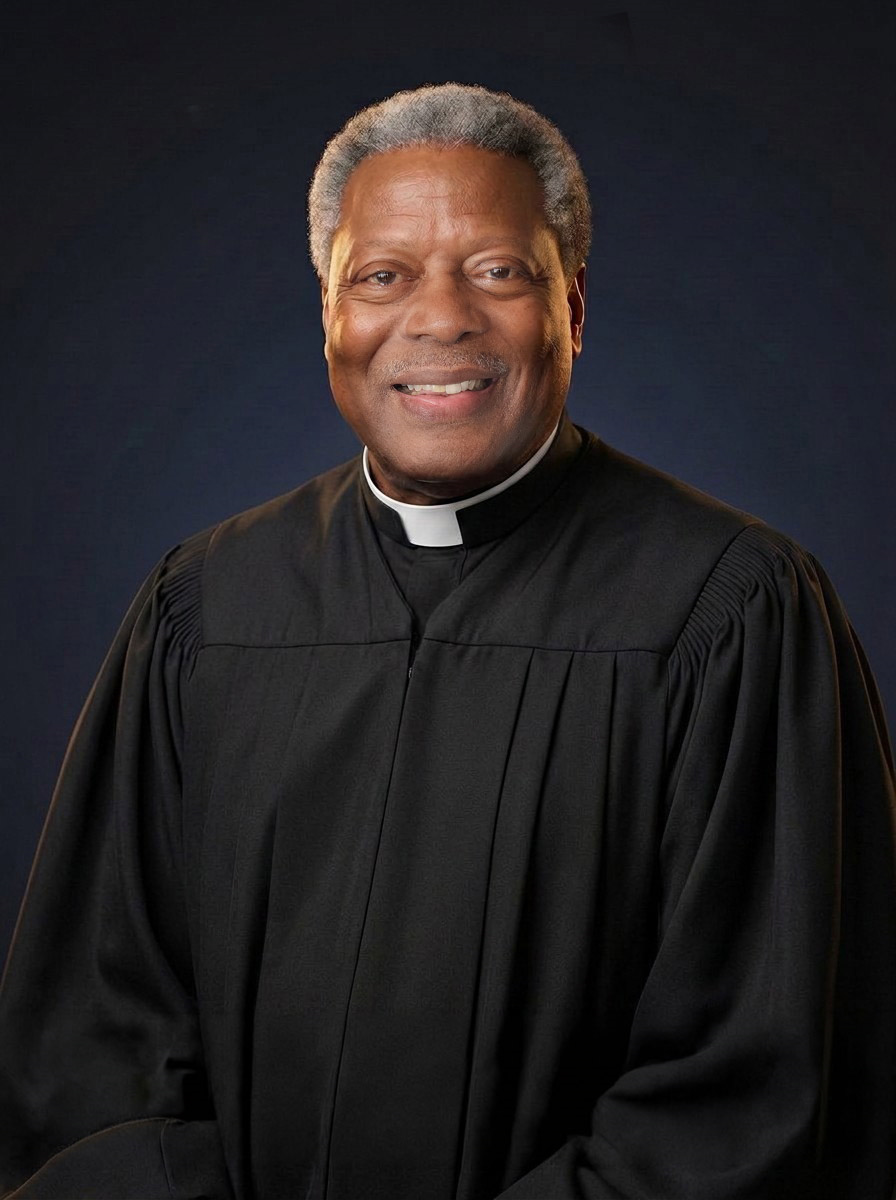
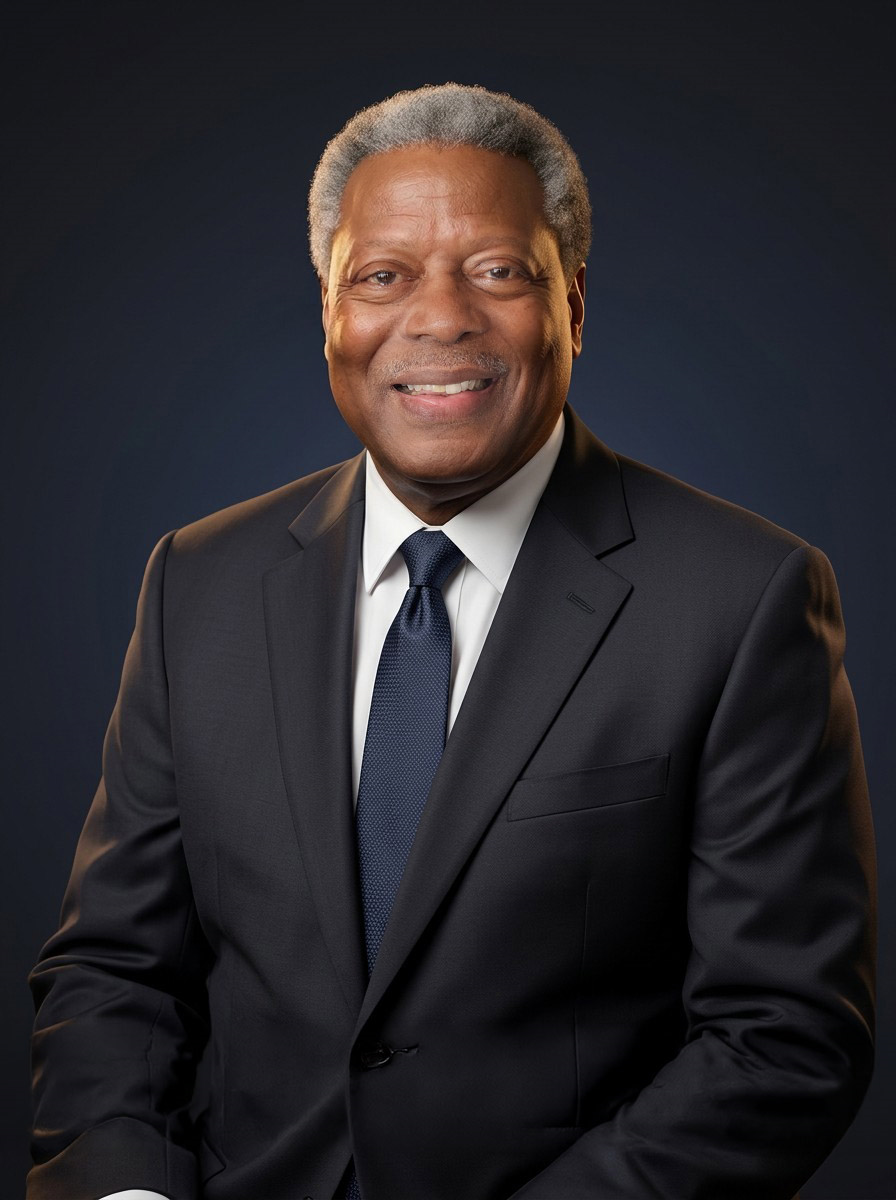
Enforce no-filler-words in code, and update Joel's board photo to the suit portrait
The prompt-only instruction wasn't reliable (one reply still had "umm" 3x), so
filler words are now stripped from model output in code, same pattern as
cleanDashes(). Also swapped board.html's Joel photo to the suit portrait to
match the preview page (Carolyn's suggestion).

diff --git a/netlify/functions/gk-carolyn-foster.js b/netlify/functions/gk-carolyn-foster.js
@@ -37,6 +37,17 @@ function cleanDashes(s) {
   return String(s == null ? '' : s).replace(/—/g, ', ').replace(/–/g, ', ');
 }
 
+// Enforced in code, not just asked for in the prompt: a system-prompt rule alone
+// does not guarantee the model never says "umm". Strip filler words outright so
+// this cannot regress silently.
+function stripFillers(s) {
+  return String(s == null ? '' : s)
+    .replace(/\b(u+m+h?|u+h+m?|erm+)\b[,]?\s*/gi, '')
+    .replace(/\s{2,}/g, ' ')
+    .replace(/\s+([,.!?])/g, '$1')
+    .trim();
+}
+
 const ABUSE_RE = /\b(f+u+c+k+|sh[i1]t|b[i1]tch|a+s+h+o+l+e+|cunt|bastard|damn\s+you|go\s+to\s+hell|kill\s+yourself|shut\s+up\s+bitch)\b/i;
 const CAROLYN_STEP_AWAY = "I'm going to step back from this conversation for now. Come back when you are ready to talk, and I will be here.";
 
@@ -193,5 +204,5 @@ exports.handler = async (event) => {
 
   if (!output) return json(502, { error: 'empty model output' });
 
-  return json(200, { ok: true, body: cleanDashes(output) });
+  return json(200, { ok: true, body: stripFillers(cleanDashes(output)) });
 };

diff --git a/netlify/functions/gk-joel-king.js b/netlify/functions/gk-joel-king.js
@@ -36,6 +36,17 @@ function cleanDashes(s) {
   return String(s == null ? '' : s).replace(/—/g, ', ').replace(/–/g, ', ');
 }
 
+// Enforced in code, not just asked for in the prompt: a system-prompt rule alone
+// does not guarantee the model never says "umm". Strip filler words outright so
+// this cannot regress silently.
+function stripFillers(s) {
+  return String(s == null ? '' : s)
+    .replace(/\b(u+m+h?|u+h+m?|erm+)\b[,]?\s*/gi, '')
+    .replace(/\s{2,}/g, ' ')
+    .replace(/\s+([,.!?])/g, '$1')
+    .trim();
+}
+
 const ABUSE_RE = /\b(f+u+c+k+|sh[i1]t|b[i1]tch|a+s+h+o+l+e+|cunt|bastard|damn\s+you|go\s+to\s+hell|kill\s+yourself|shut\s+up\s+bitch)\b/i;
 const JOEL_STEP_AWAY = 'I think we both need a moment of peace here. Come back when you are ready to talk, and I will be here.';
 
@@ -214,5 +225,5 @@ exports.handler = async (event) => {
 
   if (!output) return json(502, { error: 'empty model output' });
 
-  return json(200, { ok: true, body: cleanDashes(output) });
+  return json(200, { ok: true, body: stripFillers(cleanDashes(output)) });
 };

diff --git a/netlify/functions/gk-gregory-foster.js b/netlify/functions/gk-gregory-foster.js
@@ -37,6 +37,17 @@ function cleanDashes(s) {
   return String(s == null ? '' : s).replace(/—/g, ', ').replace(/–/g, ', ');
 }
 
+// Enforced in code, not just asked for in the prompt: a system-prompt rule alone
+// does not guarantee the model never says "umm". Strip filler words outright so
+// this cannot regress silently.
+function stripFillers(s) {
+  return String(s == null ? '' : s)
+    .replace(/\b(u+m+h?|u+h+m?|erm+)\b[,]?\s*/gi, '')
+    .replace(/\s{2,}/g, ' ')
+    .replace(/\s+([,.!?])/g, '$1')
+    .trim();
+}
+
 const ABUSE_RE = /\b(f+u+c+k+|sh[i1]t|b[i1]tch|a+s+h+o+l+e+|cunt|bastard|damn\s+you|go\s+to\s+hell|kill\s+yourself|shut\s+up\s+bitch)\b/i;
 const GREGORY_STEP_AWAY = 'Let us both take a breath here. Come back when you are ready to talk, and I will be here.';
 
@@ -197,5 +208,5 @@ exports.handler = async (event) => {
 
   if (!output) return json(502, { error: 'empty model output' });
 
-  return json(200, { ok: true, body: cleanDashes(output) });
+  return json(200, { ok: true, body: stripFillers(cleanDashes(output)) });
 };
